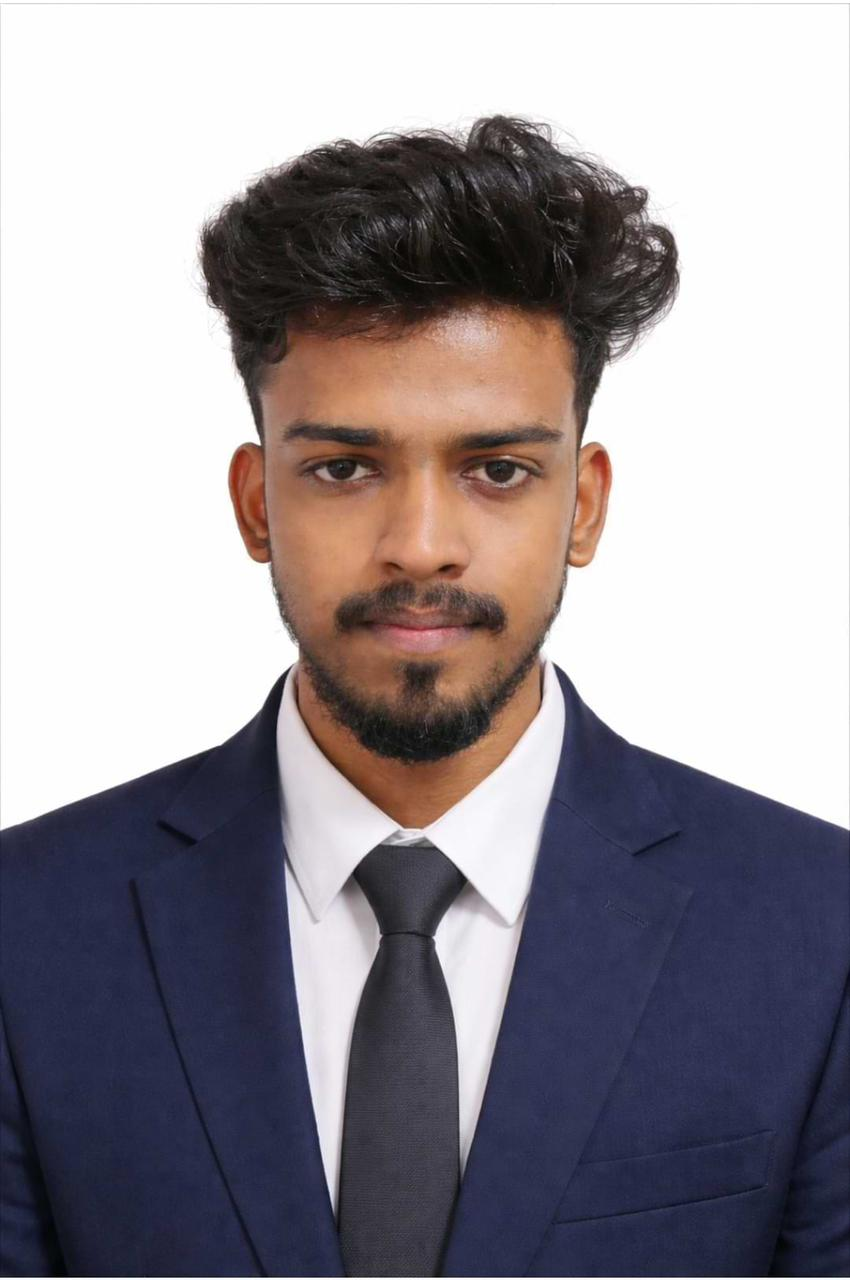
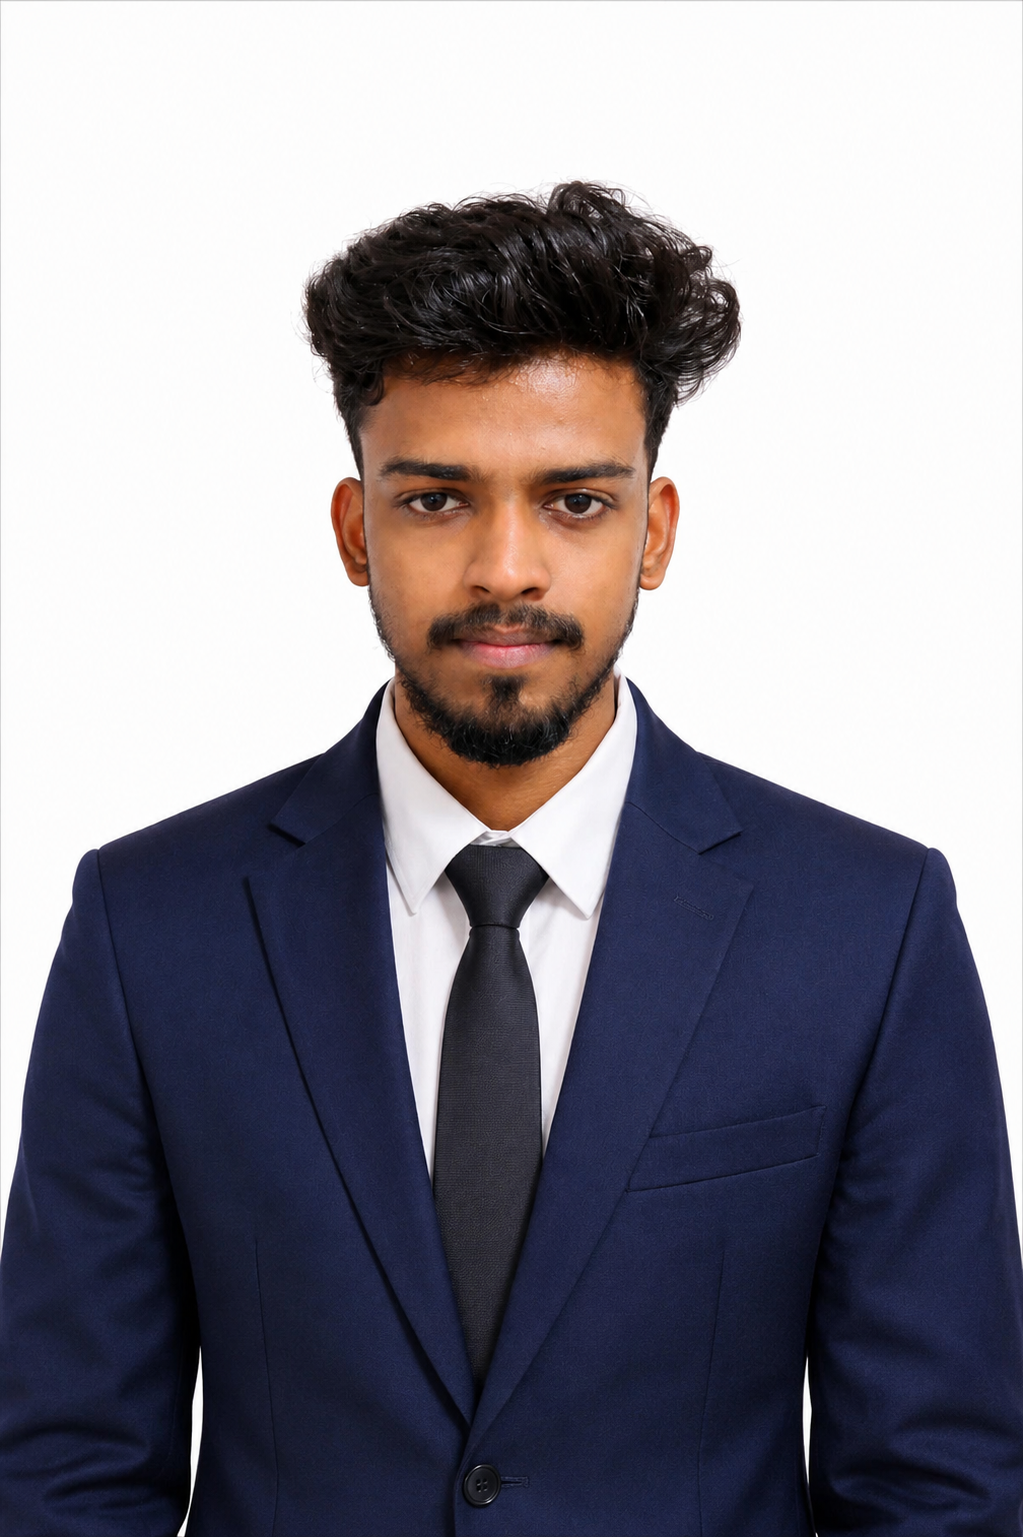
Update profile photo

diff --git a/components/Shared/ProfileImage.tsx b/components/Shared/ProfileImage.tsx
@@ -25,7 +25,7 @@ export default function ProfileImage({
         priority
         sizes="(max-width: 768px) 90vw, 40vw"
         fill
-        className="object-cover"
+        className="object-[center_15%] object-cover"
       />
     </div>
   );